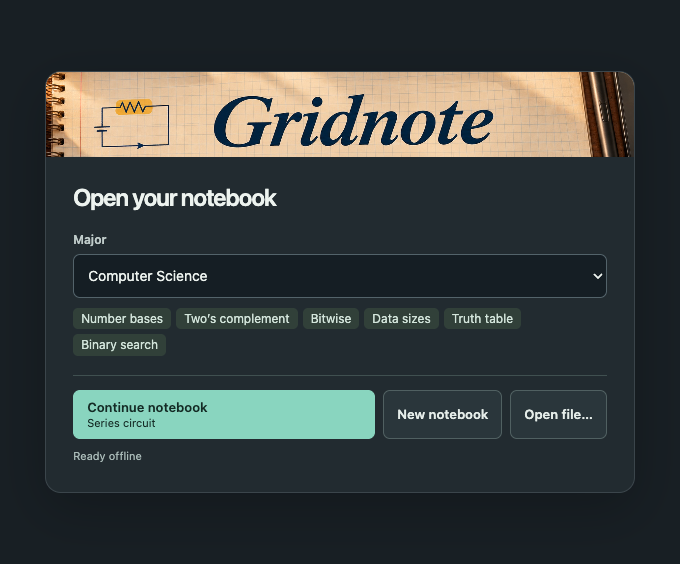
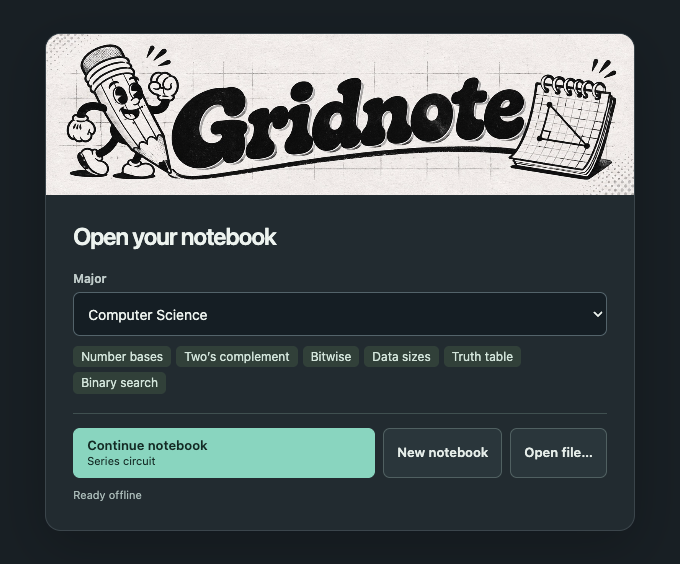
Give the launcher and project page the cartoon pencil artwork

diff --git a/web/launcher.js b/web/launcher.js
@@ -1,7 +1,7 @@
 (function (global) {
   function mount(host, options) {
     host.innerHTML = `<section class="start-card" aria-labelledby="start-title">
-      <div class="start-cover" role="img" aria-label="Gridnote on an engineering notebook"></div>
+      <div class="start-cover" role="img" aria-label="Gridnote, illustrated with a cartoon pencil and a graph-paper notebook"></div>
       <div class="start-content"><h1 id="start-title">Open your notebook</h1>
         <label class="start-label" for="welcome-major">Major</label>
         <select id="welcome-major" aria-label="Major"></select>

diff --git a/web/launcher.css b/web/launcher.css
@@ -27,8 +27,8 @@
   text-align: left;
 }
 .start-cover {
-  height: clamp(76px, 15vh, 124px);
-  background: #dfc9a8 url("./assets/launcher.jpg") center/cover;
+  aspect-ratio: 3.65;
+  background: #eeece9 url("./assets/launcher.jpg") center/cover;
 }
 .start-content {
   padding: clamp(18px, 4vw, 30px);

diff --git a/README.md b/README.md
@@ -1,4 +1,4 @@
-![Gridnote wordmark on university graph paper beside a pen tablet](web/assets/launcher.jpg)
+![Gridnote, hand-lettered beside a black-and-white cartoon pencil and a graph-paper notebook](web/assets/launcher.jpg)
 
 # Gridnote
 
@@ -26,7 +26,7 @@ Desktop downloads are community builds. The Mac app has an ad hoc signature and 
 
 Gridnote opens to a launcher. Pick a **Major** and preview its six tools, or leave **None** for a regular notebook. **Continue notebook** restores your last notebook, scroll position and zoom. **New notebook** starts a blank page. **Open file** opens a notebook or a PDF. You can switch majors later through **File → Notebook Launcher** on Mac or **Notebook menu → Notebook launcher** on the web.
 
-![Startup screen with a major selected, its six study tools and the option to continue a notebook](docs/images/launcher.png)
+![Gridnote’s cartoon launcher showing a Computer Science toolkit and the option to continue a notebook](docs/images/launcher.png)
 
 Download the [editable circuit exercise](https://raw.githubusercontent.com/Kam1kaze00/Gridnote/main/docs/examples/Series%20circuit.gridnote) or view its [finished PDF](docs/examples/Series%20circuit.pdf).
 
